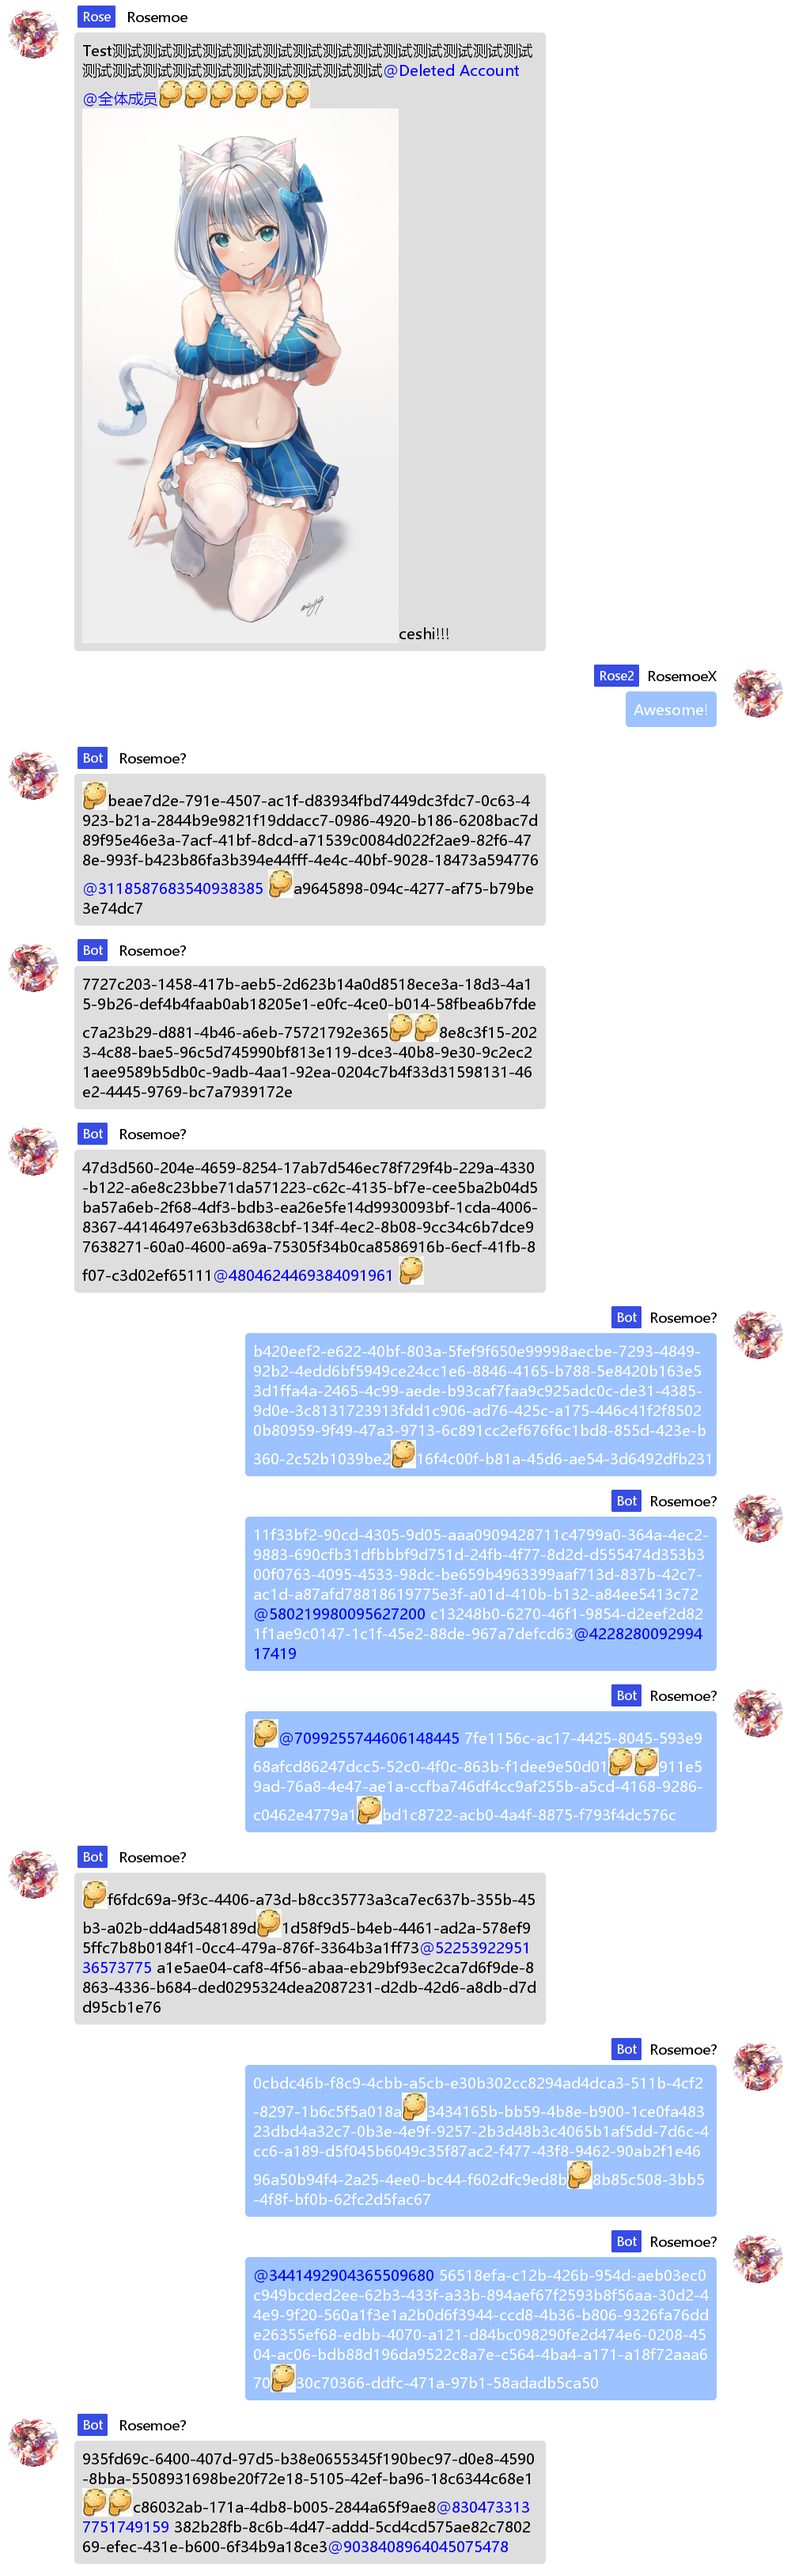
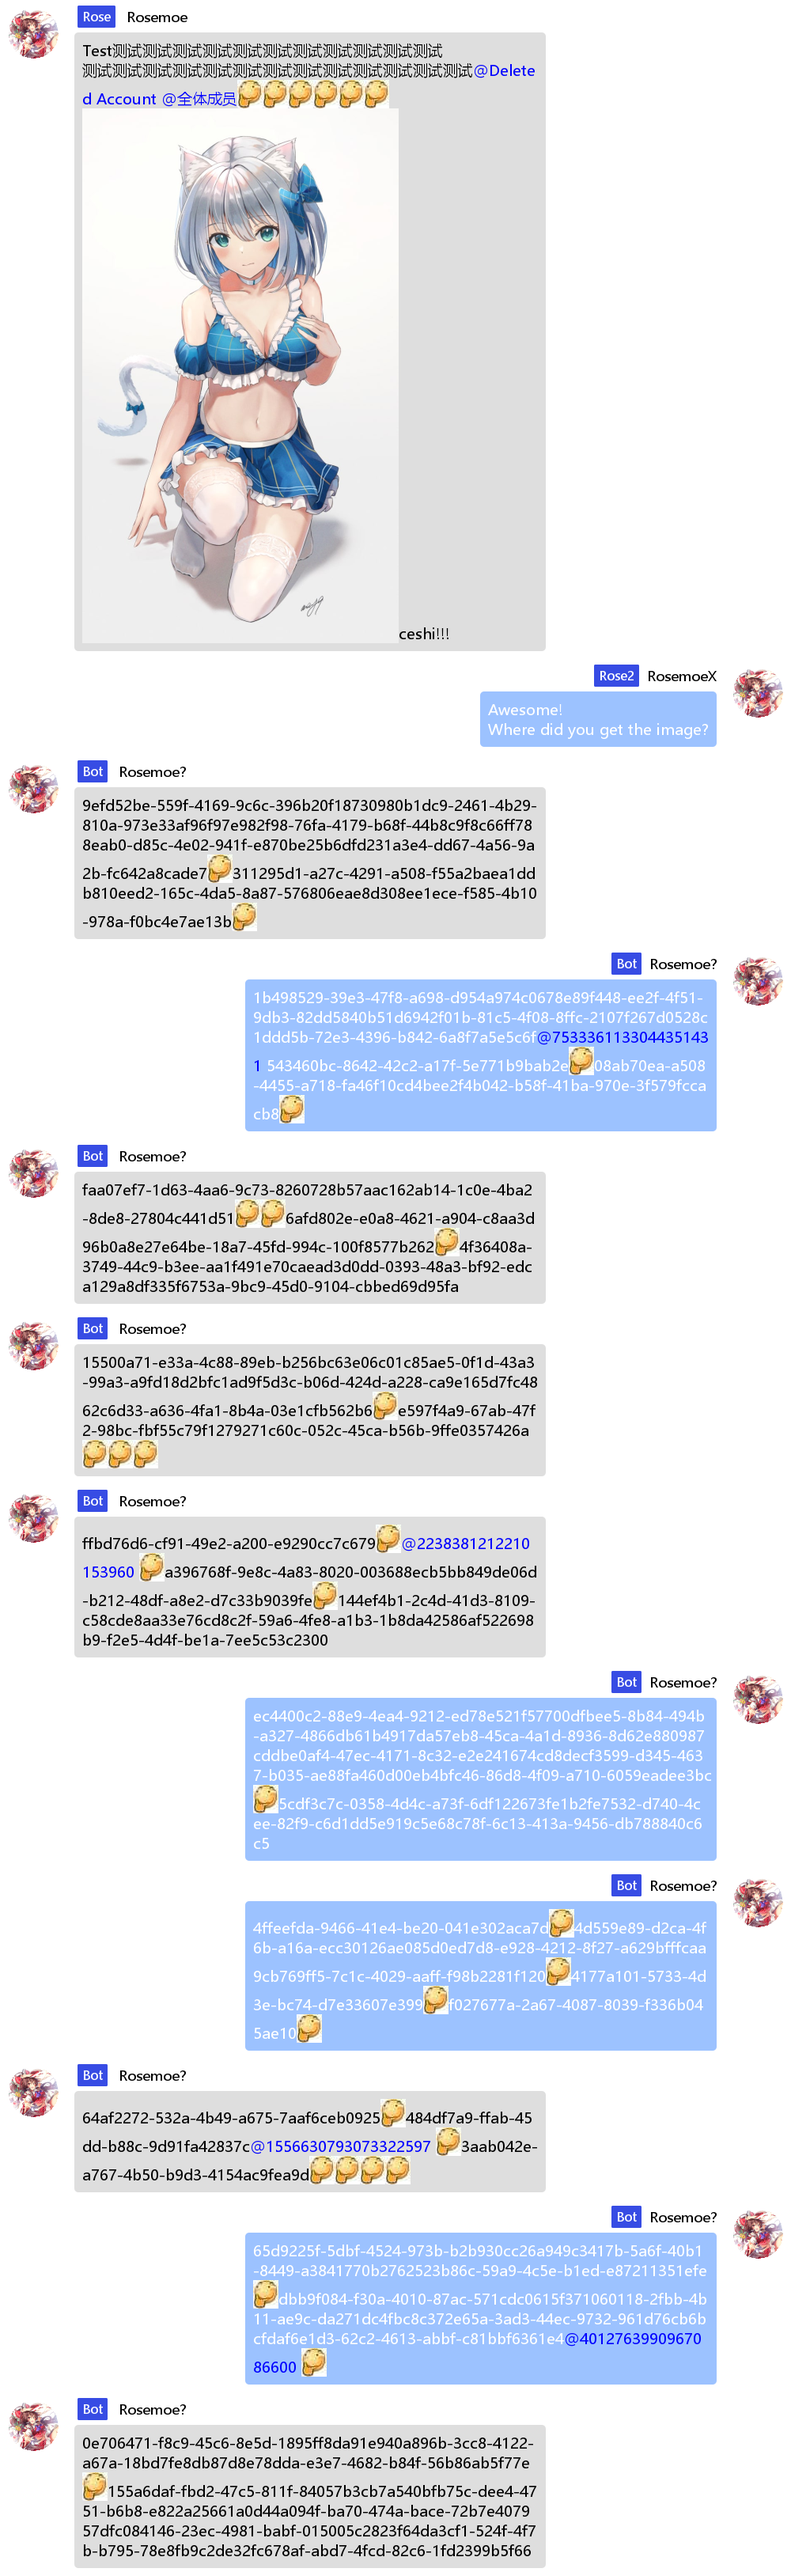
Fix hard wrap analyzing

diff --git a/src/main/kotlin/io/github/rosemoe/msgRenderer/MessageRenderer.kt b/src/main/kotlin/io/github/rosemoe/msgRenderer/MessageRenderer.kt
@@ -3,8 +3,6 @@ package io.github.rosemoe.msgRenderer
 import io.github.rosemoe.msgRenderer.render.*
 import net.mamoe.mirai.message.data.*
 import java.awt.*
-import java.awt.geom.Area
-import java.awt.geom.RoundRectangle2D
 import java.awt.image.BufferedImage
 import kotlin.math.min
 import net.mamoe.mirai.message.data.Image as MiraiImage
@@ -90,7 +88,8 @@ class MessageRenderer(private val params: RenderParams = RenderParams()) {
 
         // Step 2. Measure elements & obtain images
         val maxLayoutWidth = params.widthLimit - avatarSize - params.commonMargin * 2
-        var totalWidth = 0.0
+        var maxRowWidth = 0
+        var rowWidth = 0
         val blankImage = BufferedImage(1, 1, BufferedImage.TYPE_4BYTE_ABGR)
         val measureGraphics = blankImage.createGraphics()
         measureGraphics.enableAntialias()
@@ -98,7 +97,20 @@ class MessageRenderer(private val params: RenderParams = RenderParams()) {
         for (element in elements) {
             if (isMessageDisplayedAsText(element)) {
                 val text = if (element is At) dataProvider.getTextForAt(element) else element.contentToString()
-                totalWidth += params.messageTypeface.getStringBounds(text, measureGraphics.fontRenderContext).width
+                // Compute longest line
+                var first = true
+                text.lines().forEach {
+                    val textWidth = measureGraphics.fontMetrics.stringWidth(it)
+                    if (first) {
+                        rowWidth += textWidth
+                        first = false
+                    } else {
+                        rowWidth = textWidth
+                    }
+                    if (maxRowWidth < rowWidth) {
+                        maxRowWidth = rowWidth
+                    }
+                }
             } else {
                 val image = if (element is MiraiImage) {
                     dataProvider.getImageForMessage(element)
@@ -109,9 +121,24 @@ class MessageRenderer(private val params: RenderParams = RenderParams()) {
                 }
                 if (image == null) {
                     val text = element.contentToString()
-                    totalWidth += params.messageTypeface.getStringBounds(text, measureGraphics.fontRenderContext).width
+                    var first = true
+                    text.lines().forEach {
+                        val textWidth = measureGraphics.fontMetrics.stringWidth(it)
+                        if (first) {
+                            rowWidth += textWidth
+                            first = false
+                        } else {
+                            rowWidth = textWidth
+                        }
+                        if (maxRowWidth < rowWidth) {
+                            maxRowWidth = rowWidth
+                        }
+                    }
                 } else {
-                    totalWidth += Integer.min(image.getWidth(null), params.imageMaxWidth)
+                    rowWidth += Integer.min(image.getWidth(null), params.imageMaxWidth)
+                    if (rowWidth > maxRowWidth) {
+                        maxRowWidth = rowWidth
+                    }
                 }
             }
         }
@@ -138,7 +165,7 @@ class MessageRenderer(private val params: RenderParams = RenderParams()) {
         }
 
         // Step 4. Determine the width of image
-        val layoutWidth = min(maxLayoutWidth, totalWidth.toInt())
+        val layoutWidth = min(maxLayoutWidth, maxRowWidth)
         val imageWidth = Integer.max(layoutWidth, titleRegionWidth + nicknameWidth) + params.commonMargin * 2 + avatarSize
 
         // Step 5. Determine the height of image as well the position of objects
@@ -172,46 +199,56 @@ class MessageRenderer(private val params: RenderParams = RenderParams()) {
             }
             if (text != null) {
                 // Render the text
-                var begin = 0
-                var len = 0
-                val length = text.length
-                val chars = text.toCharArray()
-                var lastWidth = 0
-                while (begin < length) {
-                    while (begin + len < length && measureGraphics.fontMetrics.charsWidth(chars, begin, len)
-                            .also { lastWidth = it } + layoutX < layoutWidth
-                    ) {
-                        len++
-                    }
-                    if (lastWidth + layoutX > layoutWidth) {
-                        len--
-                    }
-                    len = Integer.max(0, len)
-
-                    val renderNode = TextRenderNode(
-                        x + layoutX,
-                        row.bottom() - lineHeight + baselineOffset,
-                        text.substring(begin, begin + len),
-                        params.messageTypeface,
-                        colorForText(element, isReceivedMessage)
-                    )
-                    displayList.add(renderNode)
-
-                    val textWidth = measureGraphics.fontMetrics.charsWidth(chars, begin, len)
-                    if (begin + len < length) {
-                        if (len == 0 && row.width == 0) {
-                            // Unable to place any text. Exit
-                            break
-                        }
+                var first = true
+                text.lines().forEach { line ->
+                    if (first) {
+                        first = false
+                    } else {
                         layoutY += row.height
                         layoutX = 0
                         row = Row(y + layoutY, lineHeight)
-                    } else {
-                        layoutX += textWidth
-                        row.addElement(renderNode, textWidth, lineHeight)
                     }
-                    begin += len
-                    len = 0
+                    var begin = 0
+                    var len = 0
+                    val length = line.length
+                    val chars = line.toCharArray()
+                    var lastWidth = 0
+                    while (begin < length) {
+                        while (begin + len < length && measureGraphics.fontMetrics.charsWidth(chars, begin, len)
+                                .also { lastWidth = it } + layoutX < layoutWidth
+                        ) {
+                            len++
+                        }
+                        if (lastWidth + layoutX > layoutWidth) {
+                            len--
+                        }
+                        len = Integer.max(0, len)
+
+                        val renderNode = TextRenderNode(
+                            x + layoutX,
+                            row.bottom() - lineHeight + baselineOffset,
+                            line.substring(begin, begin + len),
+                            params.messageTypeface,
+                            colorForText(element, isReceivedMessage)
+                        )
+                        displayList.add(renderNode)
+
+                        val textWidth = measureGraphics.fontMetrics.charsWidth(chars, begin, len)
+                        if (begin + len < length) {
+                            if (len == 0 && row.width == 0) {
+                                // Unable to place any text. Exit
+                                break
+                            }
+                            layoutY += row.height
+                            layoutX = 0
+                            row = Row(y + layoutY, lineHeight)
+                        } else {
+                            layoutX += textWidth
+                            row.addElement(renderNode, textWidth, lineHeight)
+                        }
+                        begin += len
+                        len = 0
+                    }
                 }
             }
             if (image != null) {

diff --git a/src/test/kotlin/Main.kt b/src/test/kotlin/Main.kt
@@ -20,7 +20,7 @@ fun main(args: Array<String>) {
         MessageInfo(
             messageChainOf(
                 PlainText("Test"),
-                PlainText("测试测试测试测试测试测试测试测试测试测试测试测试测试测试测试测试测试测试测试测试测试测试测试测试"),
+                PlainText("测试测试测试测试测试测试测试测试测试测试测试\n测试测试测试测试测试测试测试测试测试测试测试测试测试"),
                 At(123456),
                 AtAll,
                 MiraiImage("{00000000-0000-0000-0000-101F1EEBF5B5}.png"),
@@ -33,7 +33,7 @@ fun main(args: Array<String>) {
                 PlainText("ceshi!!!")
             ), UserInfo(avatar, "Rosemoe", "Rose")
         ),
-        MessageInfo(messageChainOf(PlainText("Awesome!")), UserInfo(avatar, "RosemoeX", "Rose2"), false)
+        MessageInfo(messageChainOf(PlainText("Awesome!\nWhere did you get the image?")), UserInfo(avatar, "RosemoeX", "Rose2"), false)
     )
     val fakeUser = UserInfo(avatar, "Rosemoe?", "Bot")
     for (i in 1..10) {
